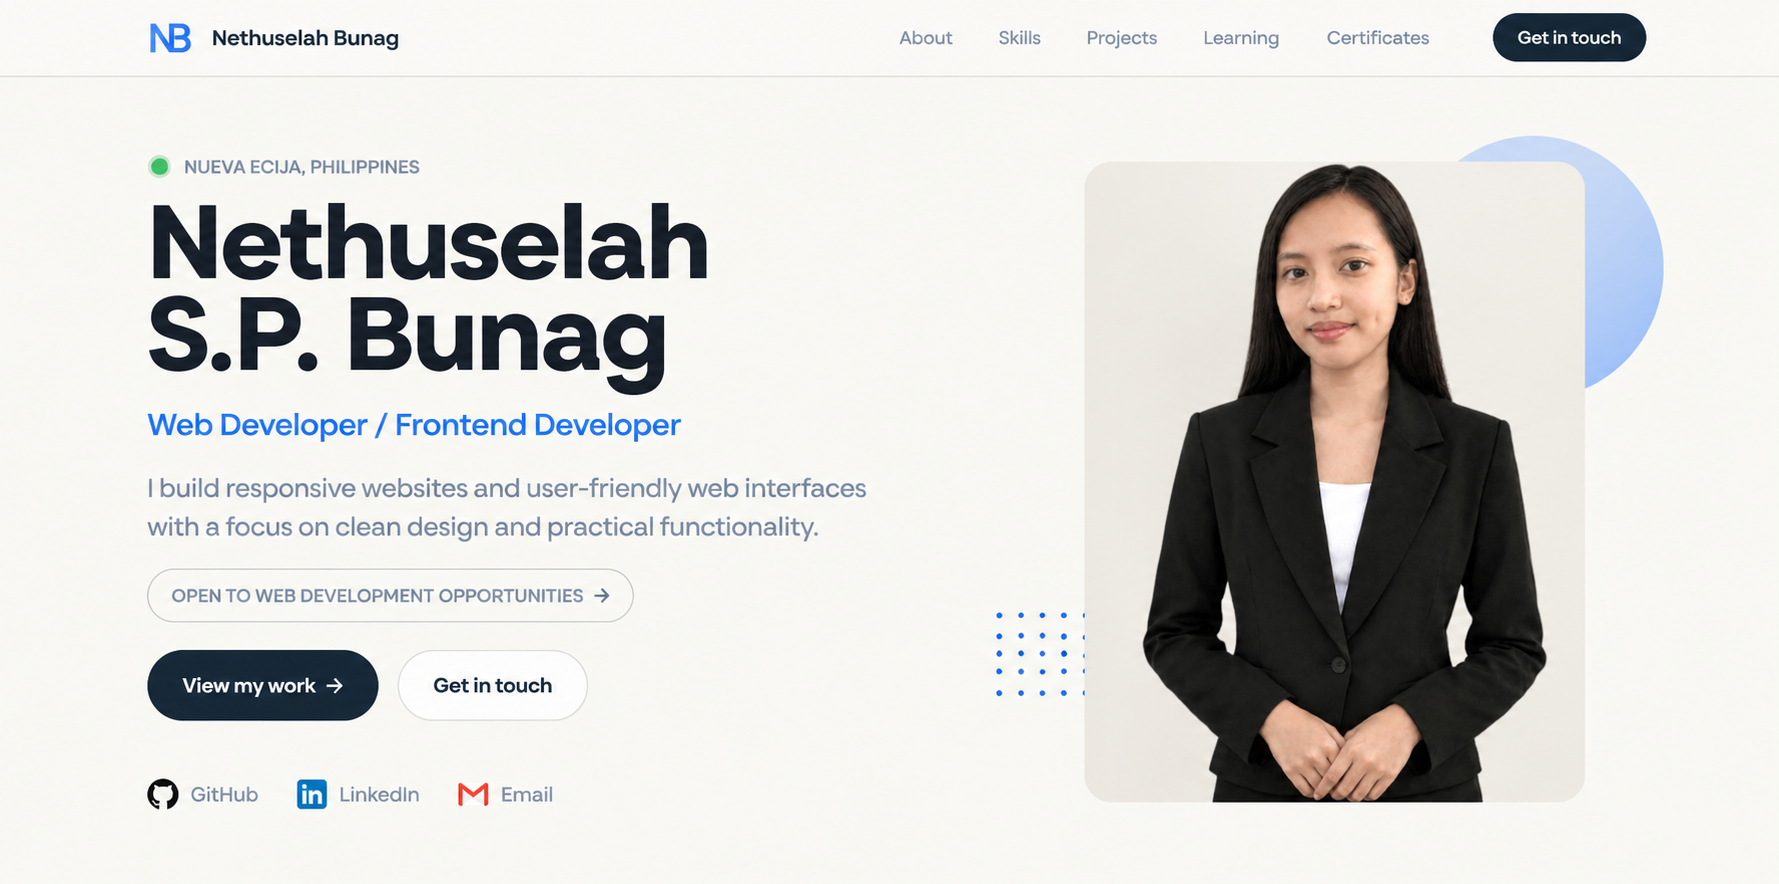
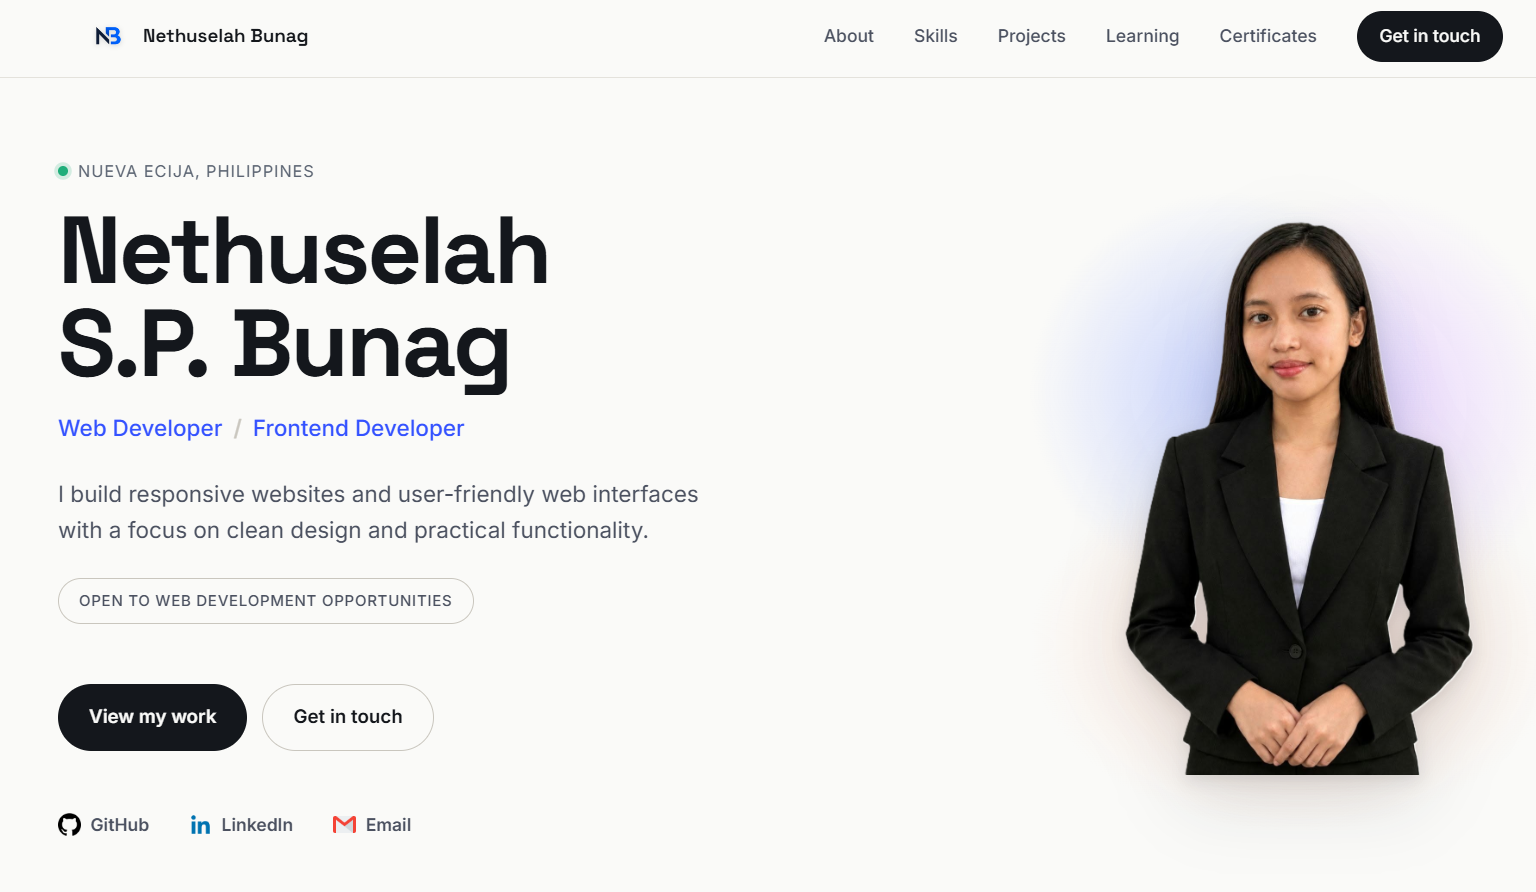
Fix Cloudflare deployment

diff --git a/public/assets/css/style.css b/public/assets/css/style.css
@@ -315,7 +315,11 @@ p{ margin: 0; }
   color: var(--body);
 }
 
+/* --photo-w = portrait width. The photo and the glow both use it, so they stay in proportion. */
 .hero-photo-wrap{
+  --photo-w: 380px;
+  position: relative;
+  isolation: isolate;
   opacity: 0;
   animation: hero-rise .5s cubic-bezier(.16,.8,.24,1) .12s forwards;
   display: flex;
@@ -382,22 +386,37 @@ p{ margin: 0; }
 
 .hero-link:hover{ color: var(--ink); }
 
+/* Portrait: no border, no card corners, natural proportions (height: auto), soft real shadow */
 .hero-photo{
+  position: relative;
+  z-index: 1;
   width: 100%;
-  max-width: 380px;
+  max-width: var(--photo-w);
   height: auto;
-  aspect-ratio: 4 / 5;
-  object-fit: cover;
-  object-position: center 25%;
-  border-radius: var(--r-md);
-  border: 1px solid var(--hairline);
+  filter: drop-shadow(0 4px 6px rgba(20, 23, 28, .10)) drop-shadow(0 18px 28px rgba(20, 23, 28, .14));
+}
+
+/* Soft three-color glow behind the portrait: no panel, no hard edges.
+   Each blob fades to transparent exactly at the box edge. */
+.hero-photo-glow{
+  position: absolute;
+  top: 50%;
+  left: 50%;
+  z-index: 0;
+  width: calc(var(--photo-w) * 1.12);
+  height: calc(var(--photo-w) * 1.4);
+  transform: translate(-50%, -50%);
+  pointer-events: none;
+  background:
+    radial-gradient(38% 30% at 38% 34%, #C7D2FE 0%, rgba(199, 210, 254, 0) 100%),
+    radial-gradient(36% 32% at 64% 36%, #E9D5FF 0%, rgba(233, 213, 255, 0) 100%),
+    radial-gradient(50% 28% at 50% 72%, #FFE4D6 0%, rgba(255, 228, 214, 0) 100%);
 }
 
 @media (max-width: 940px){
   .hero{ padding-top: 36px; }
   .hero-inner{ flex-direction: column; align-items: stretch; gap: var(--sp-6); }
-  .hero-photo-wrap{ order: -1; justify-content: center; }
-  .hero-photo{ width: 100%; max-width: clamp(220px, 55vw, 250px); }
+  .hero-photo-wrap{ order: -1; justify-content: center; --photo-w: clamp(220px, 55vw, 250px); }
 }
 
 /* =========================
@@ -698,8 +717,8 @@ p{ margin: 0; }
 
 .flip-back .project-stack{ margin: 0 0 18px; }
 
-/* Action button(s) follow the tags directly (no longer pushed to the bottom) */
-.flip-actions{ display: flex; flex-wrap: wrap; gap: var(--sp-3); margin-top: 4px; }
+/* Action button(s) sit right under the tags (not pushed to the bottom) */
+.flip-actions{ display: flex; flex-wrap: wrap; gap: var(--sp-3); margin-top: 0; }
 
 @media (max-width: 540px){
   .flip-face{ padding: var(--sp-5); }
@@ -1001,24 +1020,3 @@ button.cert-thumb{
 .reveal{ opacity: 0; transform: translateY(16px); transition: opacity .6s ease, transform .6s ease; }
 
 .reveal.in{ opacity: 1; transform: translateY(0); }
-/* ----- Back face: compact spacing (back only, the front is not touched) -----
-   ".flip-card .flip-back" is more specific than the older rules,
-   so these values win even if an old gap / margin-top: auto is still in the file. */
-.flip-card .flip-back{
-  justify-content: flex-start;  /* content starts at the top, never spread out */
-  gap: 0;                       /* spacing now comes from the margins below */
-}
-
-.flip-card .flip-back .back-button{
-  align-self: flex-start;
-  flex: none;
-  width: fit-content;
-  margin: 0 0 16px;             /* 16px between ← Back and the title */
-}
-
-.flip-card .flip-back h3{ margin: 0 0 12px; text-align: center; }
-.flip-card .flip-back > p{ margin: 0 0 16px; }
-.flip-card .flip-back .project-features{ margin: 0 0 16px; }
-.flip-card .flip-back .project-features ul{ margin: 0; }
-.flip-card .flip-back .project-stack{ margin: 0 0 18px; }
-.flip-card .flip-back .flip-actions{ margin: 0; }  /* sits right under the tags */

diff --git a/src/components/sections/HeroSection.vue b/src/components/sections/HeroSection.vue
@@ -75,6 +75,8 @@ const heroLinks = [
       </div>
 
       <div class="hero-photo-wrap">
+        <!-- Decorative glow behind the portrait (hidden from screen readers) -->
+        <div class="hero-photo-glow" aria-hidden="true"></div>
         <img
           src="/assets/profile/nethuselah-bunag.png"
           alt="Portrait of Nethuselah S.P. Bunag"
